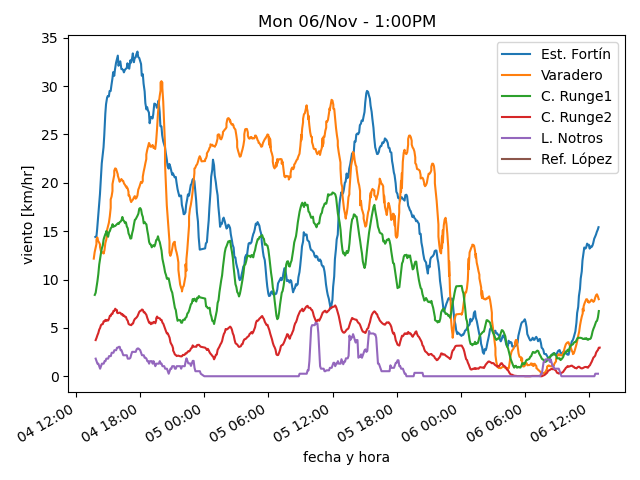
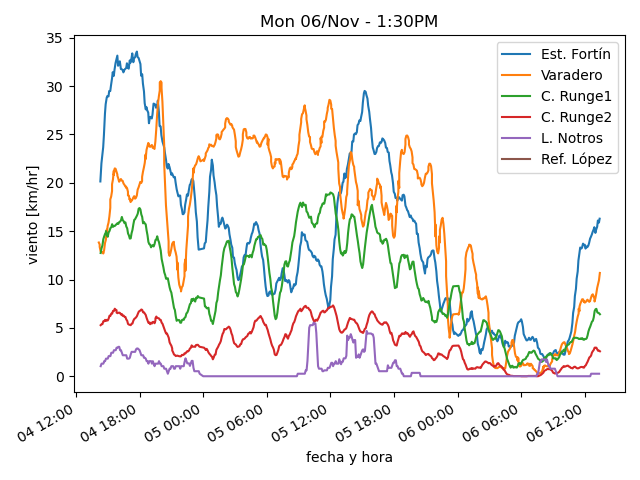
actualiza datos

diff --git a/estaciones/estacion4.html b/estaciones/estacion4.html
@@ -18,22 +18,22 @@
     </tr>
     <tr>
      <td class="stats_data">
-      12:59PM
+      1:24PM
      </td>
     </tr>
     <tr>
      <td class="stats_data">
-      10.7⁰C
+      10.3⁰C
      </td>
     </tr>
     <tr>
      <td class="stats_data">
-      7.1⁰C
+      7.8⁰C
      </td>
     </tr>
     <tr>
      <td class="stats_data">
-      78.5%
+      84.3%
      </td>
     </tr>
     <tr>
@@ -43,22 +43,22 @@
     </tr>
     <tr>
      <td class="stats_data">
-      1.4/2.5 km/hr SSW
+      1.1/2.0 km/hr SW
      </td>
     </tr>
     <tr>
      <td class="stats_data">
-      0.0 / 0.0 mm
+      0.2 / 1.19 mm
      </td>
     </tr>
     <tr>
      <td class="stats_data">
-      2.0
+      1.0
      </td>
     </tr>
     <tr>
      <td class="stats_data">
-      248.9 W/m²
+      175.8 W/m²
      </td>
     </tr>
    </tbody>

diff --git a/estaciones/estacion1.html b/estaciones/estacion1.html
@@ -18,22 +18,22 @@
     </tr>
     <tr>
      <td class="stats_data">
-      12:53PM
+      1:23PM
      </td>
     </tr>
     <tr>
      <td class="stats_data">
-      11.4⁰C
+      11.0⁰C
      </td>
     </tr>
     <tr>
      <td class="stats_data">
-      6.8⁰C
+      6.5⁰C
      </td>
     </tr>
     <tr>
      <td class="stats_data">
-      73.5%
+      74.0%
      </td>
     </tr>
     <tr>
@@ -43,7 +43,7 @@
     </tr>
     <tr>
      <td class="stats_data">
-      7.9/14.5 km/hr SW
+      12.8/19.3 km/hr SW
      </td>
     </tr>
     <tr>
@@ -53,12 +53,12 @@
     </tr>
     <tr>
      <td class="stats_data">
-      1.1
+      1.3
      </td>
     </tr>
     <tr>
      <td class="stats_data">
-      134.0 W/m²
+      146.0 W/m²
      </td>
     </tr>
    </tbody>

diff --git a/estaciones/estacion2.html b/estaciones/estacion2.html
@@ -18,22 +18,22 @@
     </tr>
     <tr>
      <td class="stats_data">
-      12:54PM
+      1:24PM
      </td>
     </tr>
     <tr>
      <td class="stats_data">
-      10.0⁰C
+      10.2⁰C
      </td>
     </tr>
     <tr>
      <td class="stats_data">
-      8.3⁰C
+      8.6⁰C
      </td>
     </tr>
     <tr>
      <td class="stats_data">
-      89.6%
+      90.3%
      </td>
     </tr>
     <tr>
@@ -43,7 +43,7 @@
     </tr>
     <tr>
      <td class="stats_data">
-      5.7/6.4 km/hr NW
+      14.3/17.1 km/hr NW
      </td>
     </tr>
     <tr>
@@ -58,7 +58,7 @@
     </tr>
     <tr>
      <td class="stats_data">
-      235.5 W/m²
+      230.7 W/m²
      </td>
     </tr>
    </tbody>

diff --git a/estaciones/estacion3.html b/estaciones/estacion3.html
@@ -18,22 +18,22 @@
     </tr>
     <tr>
      <td class="stats_data">
-      12:54PM
+      1:24PM
      </td>
     </tr>
     <tr>
      <td class="stats_data">
-      10.2⁰C
+      9.5⁰C
      </td>
     </tr>
     <tr>
      <td class="stats_data">
-      7.2⁰C
+      8.0⁰C
      </td>
     </tr>
     <tr>
      <td class="stats_data">
-      81.7%
+      90.1%
      </td>
     </tr>
     <tr>
@@ -43,7 +43,7 @@
     </tr>
     <tr>
      <td class="stats_data">
-      7.4/10.5 km/hr NW
+      4.5/6.2 km/hr NW
      </td>
     </tr>
     <tr>
@@ -58,7 +58,7 @@
     </tr>
     <tr>
      <td class="stats_data">
-      255.4 W/m²
+      203.8 W/m²
      </td>
     </tr>
    </tbody>

diff --git a/estaciones/estacion5.html b/estaciones/estacion5.html
@@ -18,27 +18,27 @@
     </tr>
     <tr>
      <td class="stats_data">
-      12:50PM
+      1:20PM
      </td>
     </tr>
     <tr>
      <td class="stats_data">
-      11.4⁰C
+      11.1⁰C
      </td>
     </tr>
     <tr>
      <td class="stats_data">
-      8.9⁰C
+      8.7⁰C
      </td>
     </tr>
     <tr>
      <td class="stats_data">
-      85.0%
+      86.0%
      </td>
     </tr>
     <tr>
      <td class="stats_data">
-      1012.29hPa
+      1012.43hPa
      </td>
     </tr>
     <tr>
